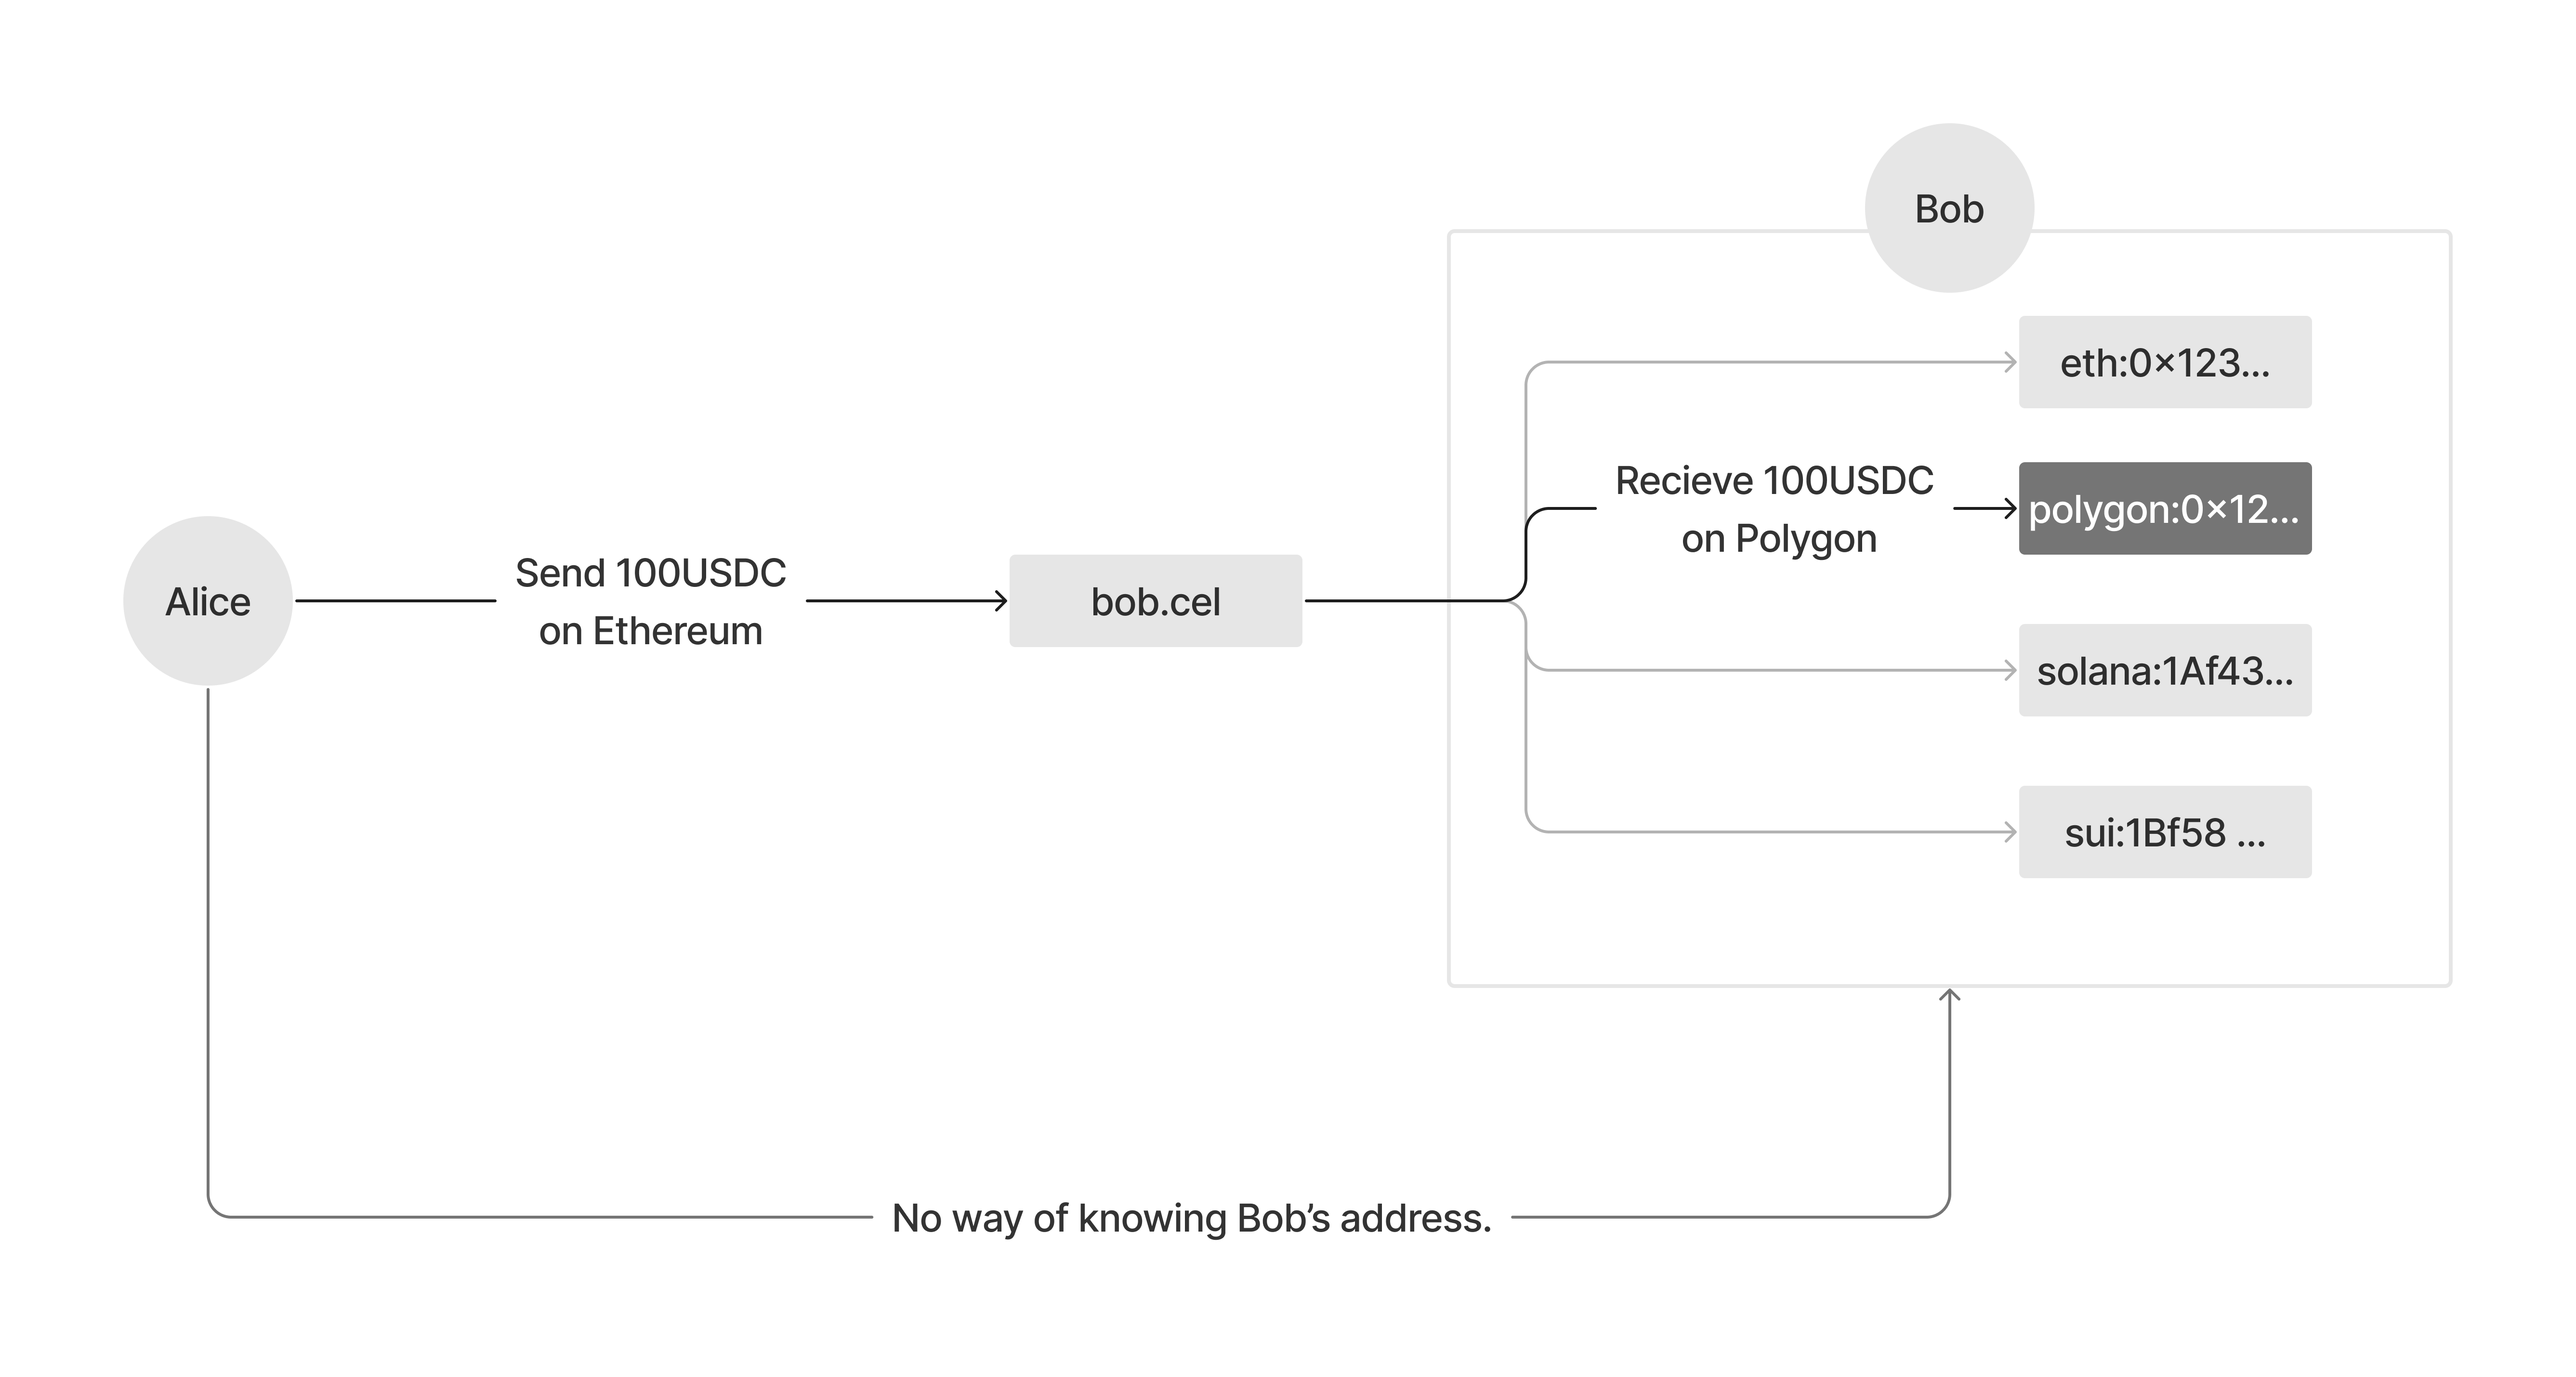
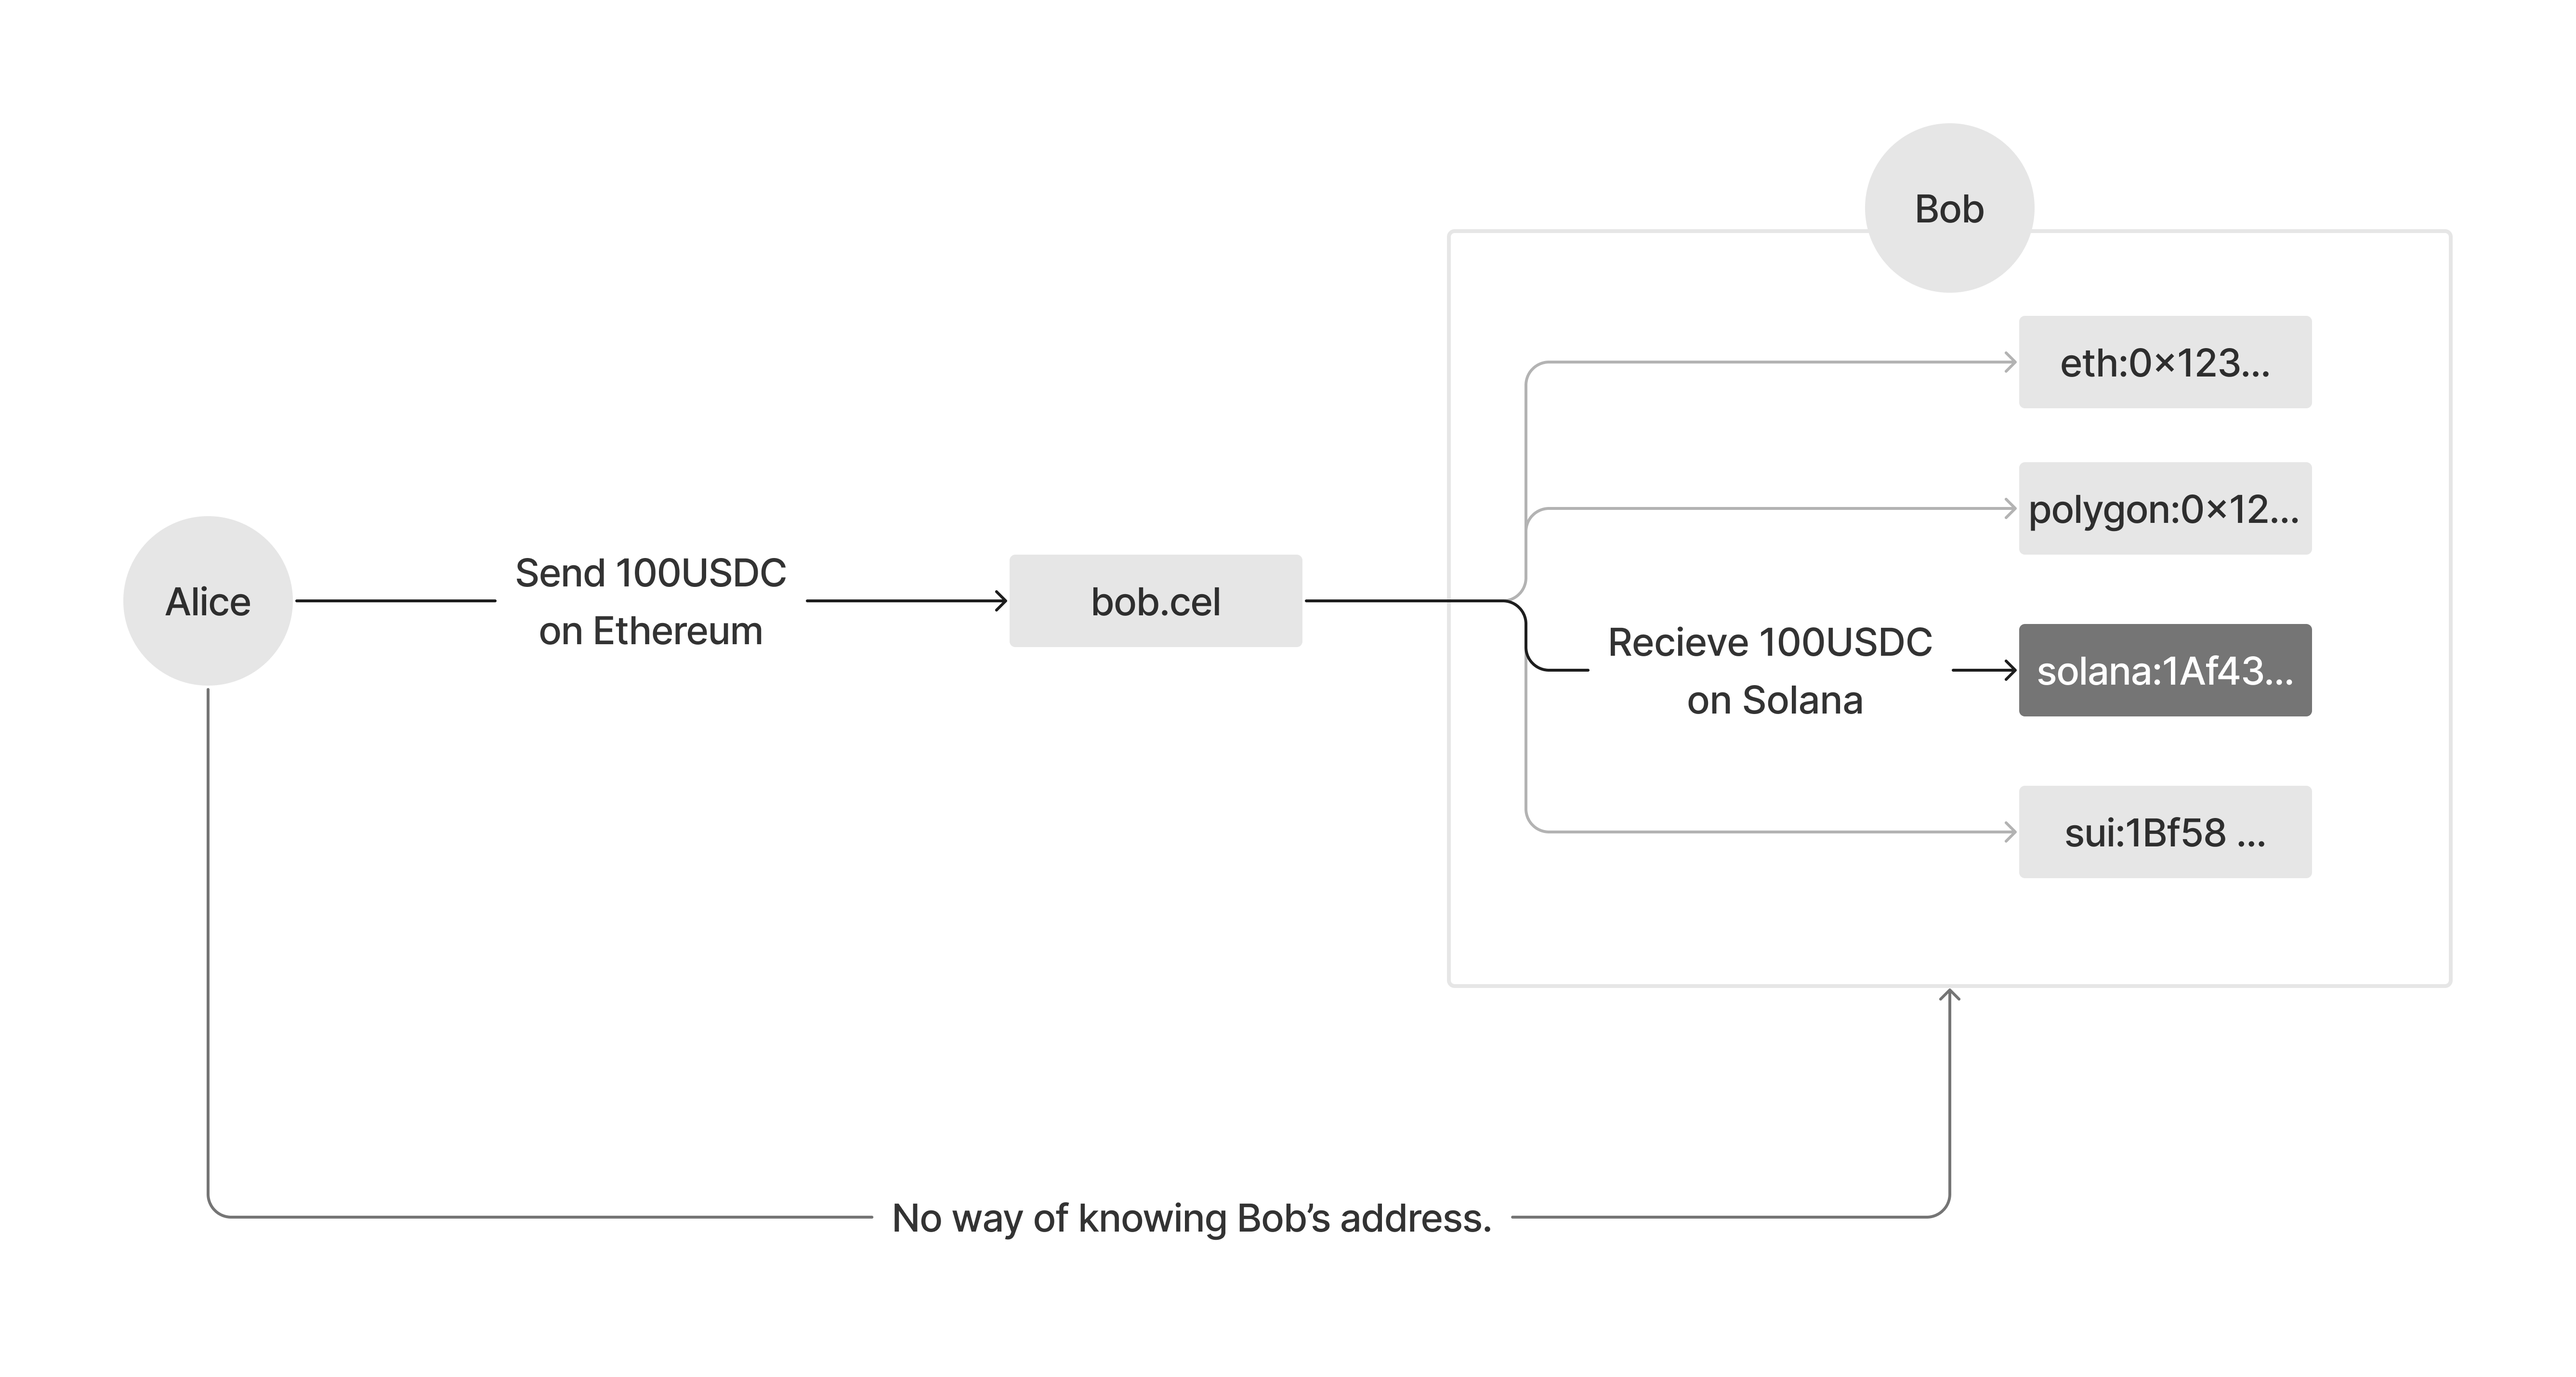
add usecase

diff --git a/docs/overview/usecase/gaming-socialfi.md b/docs/overview/usecase/gaming-socialfi.md
@@ -1,0 +1,26 @@
+---
+sidebar_position: 2
+---
+
+# Interoperable Gaming and SocialFi
+
+The gaming industry and social finance (SocialFi) are rapidly evolving with the integration of blockchain technology, introducing concepts like play-to-earn (P2E) and decentralized social networks. However, interoperability between different blockchain networks remains a challenge, often limiting the seamless exchange of assets and social interactions across platforms. Mycel's infrastructure aims to bridge these gaps, providing a unified experience.
+
+Example: **Tom Participates in Cross-Chain Gaming and SocialFi**
+
+## Traditional Approach
+
+1. **Fragmented Experience**: Tom plays a blockchain-based game on Ethereum and participates in a SocialFi platform on Sui. Managing assets and identities across these chains requires separate wallets and complex interactions.
+2. **Asset Transfer Limitations**: To use a game item (NFT) earned on Ethereum in a Sui-based SocialFi platform, Tom must navigate through multiple steps, including using bridges with associated fees and risks.
+
+## With Mycel's Interoperable Gaming and SocialFi:
+
+1. **Unified Mycel ID for Gaming and SocialFi**: Tom creates a single Mycel ID, "tom.game", which he uses across all blockchain gaming and SocialFi platforms. This ID simplifies access and management of his digital persona.
+2. **Seamless Asset Transfers and Use**: Through Mycel, Tom can easily transfer or use his game assets (NFTs) across different blockchain networks. For example, an NFT earned in a game on Ethereum can be showcased or utilized in a SocialFi platform on Sui without dealing with manual bridge transactions.
+3. **Enhanced Social Interactions**: Tom's Mycel ID facilitates his participation in decentralized social networks, allowing him to maintain a consistent identity, engage in cross-chain communities, and even monetize his social interactions without compromising security or privacy.
+
+Benefits of Mycel's Approach
+
+- **Unified Gaming and Social Experience**: Users like Tom enjoy a coherent cross-chain experience, managing their gaming achievements and social engagements through a single digital identity.
+- **Simplified Asset Management**: The hassle of transferring assets across chains is eliminated, encouraging more dynamic use of in-game NFTs and tokens in various ecosystems.
+- **Privacy and Security in SocialFi**: Mycel ensures that users' identities and transactions are secure, fostering trust in decentralized social platforms and enabling genuine, privacy-respecting interactions.

diff --git a/docs/overview/usecase/cross-chain-transactions.md b/docs/overview/usecase/cross-chain-transactions.md
@@ -1,0 +1,25 @@
+---
+sidebar_position: 1
+---
+
+# Cross-Chain Transactions
+
+Cross-chain transactions, or the process of transferring assets between different blockchain networks, traditionally involve complex steps and a deep understanding of the intricacies of each network involved. Mycel significantly simplifies this process through its intent-centric approach and ID-based transfers.
+
+Example: **Alice Wants to Send USDC to Bob on Solana**
+
+## Traditional Approach
+
+1. **Alice's Preparation**: Alice has ETH on Ethereum she wants to send to Bob, who prefers to receive it as SOL on Solana.
+2. **Finding a Bridge**: Alice searches for a reliable cross-chain bridge service that supports ETH to SOL transactions.
+3. **Bridge Transaction**: Alice connects her Ethereum wallet to the bridge, deposits ETH, selects the Solana network for the output, and inputs Bob's Solana wallet address.
+4. **Fees and Waiting**: Alice pays transaction fees on Ethereum and possibly bridge fees. She then waits for the bridge to process the transaction and for SOL to be deposited into Bob's Solana wallet.
+
+## With Mycel's Intent-Centric Approach
+
+![id-based-transfer](../../assets/id-based-transfer.png)
+
+1. **Expressing Intent**: Alice logs into Mycel and states her intent: "Send ETH as SOL to bob.cel" — a simplified ID that represents Bob's receiving address on Solana.
+2. **Mycel Handles the Details**: The Mycel platform automatically identifies the necessary steps. It securely locks Alice's ETH in an escrow contract on Ethereum, interacts with a cross-chain mechanism to swap ETH for SOL, and directs the SOL to the specified Mycel ID linked to Bob's Solana address.
+3. **Seamless Execution**: The entire process is managed by Mycel, from securing the best exchange rate for ETH to SOL conversion to ensuring the SOL is deposited into Bob's Solana wallet associated with his Mycel ID. Alice pays a transparent fee, likely lower than combining separate transaction and bridge fees.
+4. **Confirmation to Both Parties**: Alice and Bob receive notifications about the transaction's completion. Bob accesses his SOL on Solana directly, without needing to manage or even know the Ethereum transaction details.

diff --git a/docs/overview/concepts/id-based-transfer.md b/docs/overview/concepts/id-based-transfer.md
@@ -12,14 +12,14 @@ Central to this system is the multi-chain sequencer, which, in conjunction with 
 
 1. Intent Submission by Alice:
 
-   Alice selects "Send" and inputs her intent: "Send 100 USDC to Bob's Mycel ID on Polygon."  
+   Alice selects "Send" and inputs her intent: "Send 100 USDC to Bob's Mycel ID on Solana."  
    Alice approves the transfer of 100 USDC to an escrow smart contract on Ethereum, facilitated by Mycel. This step ensures the funds are securely held until the transaction across chains is verified.
 
 2. Intent Processing by Mycel:
 
-   Mycel identifies Alice's intent and begins the cross-chain transaction process. It ensures the escrow contract on Ethereum holds the 100 USDC and prepares for its release to Bob on Polygon.
+   Mycel identifies Alice's intent and begins the cross-chain transaction process. It ensures the escrow contract on Ethereum holds the 100 USDC and prepares for its release to Bob on Solana.
 
-3. Receiving Funds on Polygon:
+3. Receiving Funds on Solana:
 
-   Bob receives a notification that 100 USDC is available for him on Polygon. He simply needs to confirm the receipt through his Mycel account.
-   Upon confirmation, the funds are released from the escrow on Polygon, and Bob can access his 100 USDC.
+   Bob receives a notification that 100 USDC is available for him on Solana. He simply needs to confirm the receipt through his Mycel account.
+   Upon confirmation, the funds are released from the escrow on Solana, and Bob can access his 100 USDC.

diff --git a/docs/overview/usecase/index.md b/docs/overview/usecase/index.md
@@ -1,0 +1,13 @@
+---
+sidebar_position: 2
+---
+
+# Usecase
+
+## Cross-Chain Transactions
+
+Cross-chain transactions, or the process of transferring assets between different blockchain networks, traditionally involve complex steps and a deep understanding of the intricacies of each network involved. Mycel significantly simplifies this process through its intent-centric approach and ID-based transfers.
+
+## Interoperable Gaming and SocialFi
+
+The gaming industry and social finance (SocialFi) are rapidly evolving with the integration of blockchain technology, introducing concepts like play-to-earn (P2E) and decentralized social networks. However, interoperability between different blockchain networks remains a challenge, often limiting the seamless exchange of assets and social interactions across platforms. Mycel's infrastructure aims to bridge these gaps, providing a unified experience.
